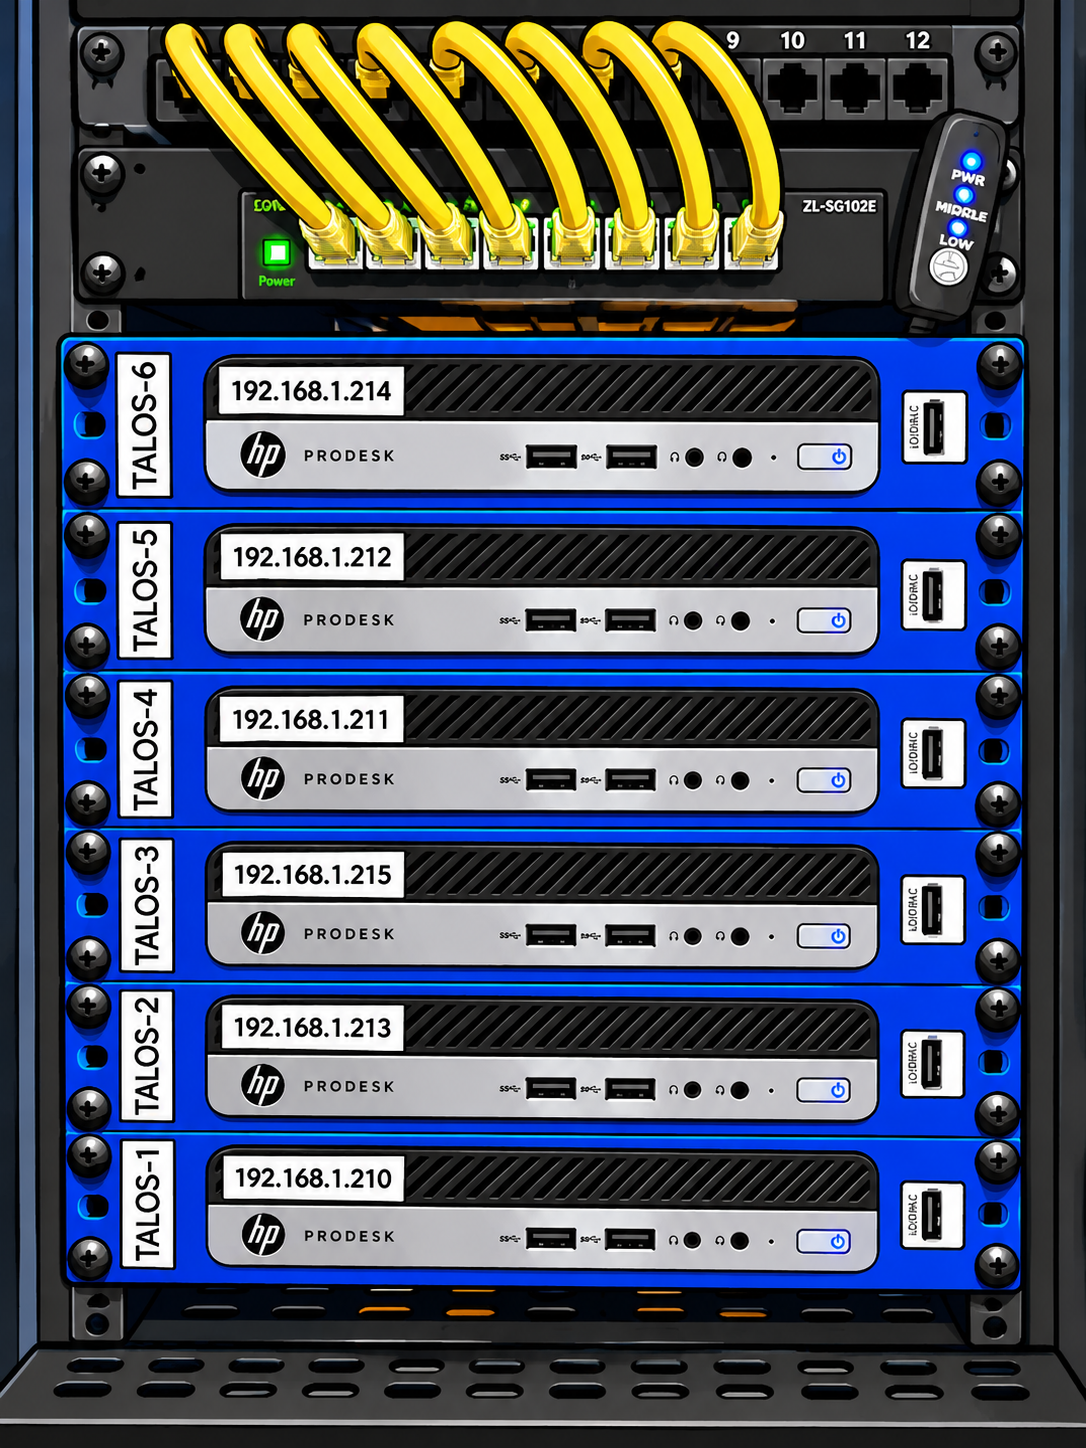
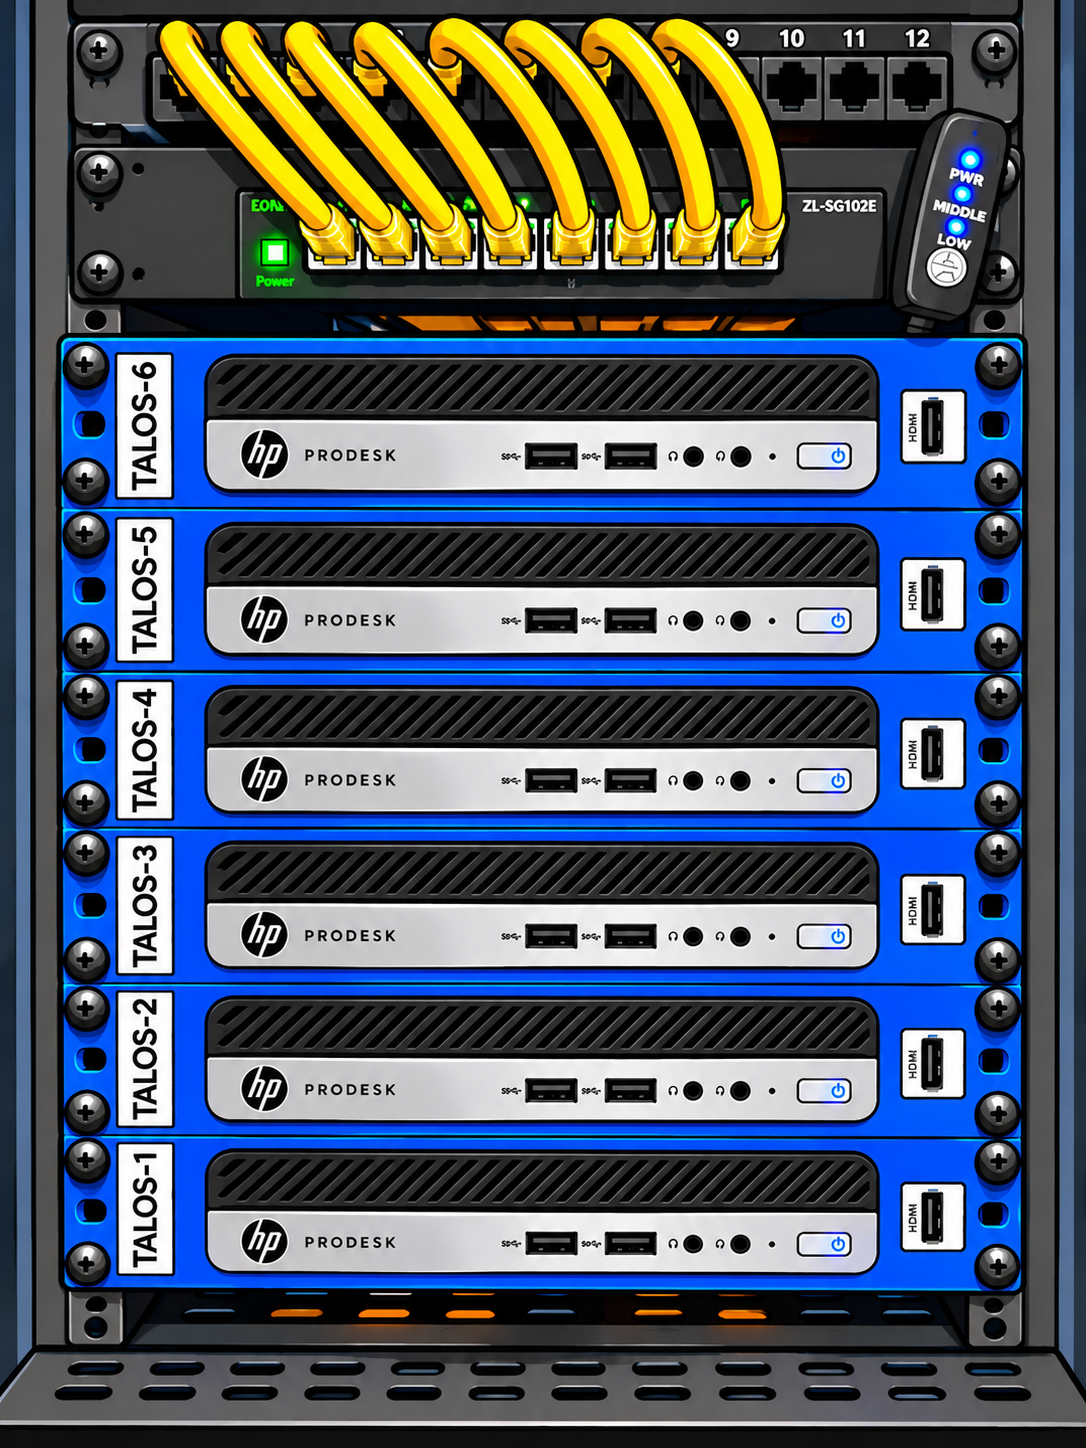
README: new mini rack graphic without IP labels (#108)

diff --git a/README.md b/README.md
@@ -44,7 +44,7 @@ The layout and patterns follow [onedr0p/home-ops](https://github.com/onedr0p/hom
 Six **HP ProDesk 405 G4 Desktop Mini** PCs in a small rack, behind one managed gigabit switch.
 
 <p align="center">
-  <img src="docs/images/mini-rack.png" alt="The mini rack: six HP ProDesk minis labeled talos-1 to talos-6 with their IP addresses, below the managed switch and patch panel" width="480">
+  <img src="docs/images/mini-rack.png" alt="The mini rack: six HP ProDesk minis labeled talos-1 to talos-6, below the managed switch and patch panel" width="480">
 </p>
 
 | Node      | Role          | CPU                                          | RAM   | OS disk     | Data disk     |
